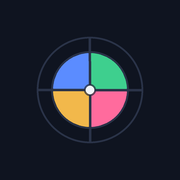
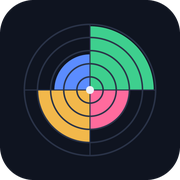
Иконка: возвращён оригинал, добавлены размеры 180/32 для устройств (v1.4.70)

diff --git a/index.html b/index.html
@@ -1717,7 +1717,7 @@
    - PATCH (2): +1 на каждое изменение версии, начиная с 2.
    APP_VERSION is the only place to bump: footer, About panel and tests read it;
    package.json / manifest.json / sw.js are synced to the same value. */
-const APP_VERSION = '1.4.69';
+const APP_VERSION = '1.4.70';
 /* ===== Wish board constants =====
    Declared high up on purpose: loadState() runs near the top of this script and calls
    ensureWishMap(), which enforces these limits — declaring them lower would blow up in the

diff --git a/sw.js b/sw.js
@@ -4,7 +4,7 @@
 //
 // Версия кэша = версия приложения (см. APP_VERSION в index.html): каждый бамп версии
 // гарантированно сносит старый кэш у всех, кто уже установил приложение, и тянет свежие файлы.
-const CACHE_NAME = 'goal-tracker-v1.4.69';
+const CACHE_NAME = 'goal-tracker-v1.4.70';
 const ASSETS = [
   './', 
   './index.html',

diff --git a/README.md b/README.md
@@ -60,6 +60,7 @@
 — Владимир
 
 ## История изменений
+- **v1.4.70** (19.11.2026) — **Иконка: возвращена оригинальная (без перерисовки) и разложена на размеры устройств.** Ваш исходный `icon-512.png`/`icon-192.png` восстановлены байт-в-байт из истории; из оригинального 512 сгенерированы `icon-180.png` (apple-touch-icon для iOS) и `icon-32.png` (favicon в браузере). Подключены в `<head>`, `sw.js` кэширует их. Версия синхронизирована (index.html, package.json, manifest.json, sw.js кэш). 394 теста зелёные.
 - **v1.4.69** (19.11.2026) — **Иконка: сохранённый дизайн отрисован заново в высоком разрешении и разложен на размеры.** Оригинальное «колесо баланса» (4 сектора: розовый, янтарный, голубой, зелёный; белая ступица; тёмные спицы и два кольца) воспроизведено из одного мастера 1024px с чистым анти-алиасом. Добавлены `icon-32.png` (favicon) и `icon-180.png` (apple-touch-icon для iOS) — 192 и 512 обновлены из той же модели. Версия синхронизирована (index.html, package.json, manifest.json, sw.js кэш). 394 теста зелёные.
 - **v1.4.67** (19.11.2026) — **Навигация по коду без изменения поведения.** В начало inline-скрипта добавлена «КАРТА КОДА» (секции и приблизительные строки), в начало `<style>` — «ИНДЕКС CSS» (16 секций + красные линии тач-режима), рядом с `let state` — «SCHEMA STATE» (форма дерева, инварианты колеса, модули `state.*` и обязательные `ensure*` при подмене). JSDoc добавлен к 40 публичным функциям из `EXPORT_SRC`. Новые сторож-тесты: карта/индекс/схема не пропадают, у ключевого API есть JSDoc. В AGENTS.md §4 добавлена развилка «документация vs рантайм» (докправки версию не бампят). Версия синхронизирована (index.html, package.json, manifest.json, sw.js кэш). 394 теста зелёные.
 - **v1.4.66** (19.11.2026) — **«Победы за неделю»: пустая рефлексия больше не сохраняется.** Сохранение формы с пустыми (или состоящими из пробелов) ответами создавало пустую запись в `state.goodTodayWeekReflections`, из-за чего блок показывал «отчёт сохранён» без текста. Теперь `q1/q2/q3` обрезаются, и если все три пусты — запись не создаётся и не перезаписывается (прежний сохранённый текст остаётся). Рендер сохранённой рефлексии (текущая неделя и история) показывает только заполненные вопросы, а `ensureGoodToday` выбрасывает пустые записи из старых сохранений. Версия синхронизирована (index.html, package.json, manifest.json, sw.js кэш). 392 теста зелёные.
